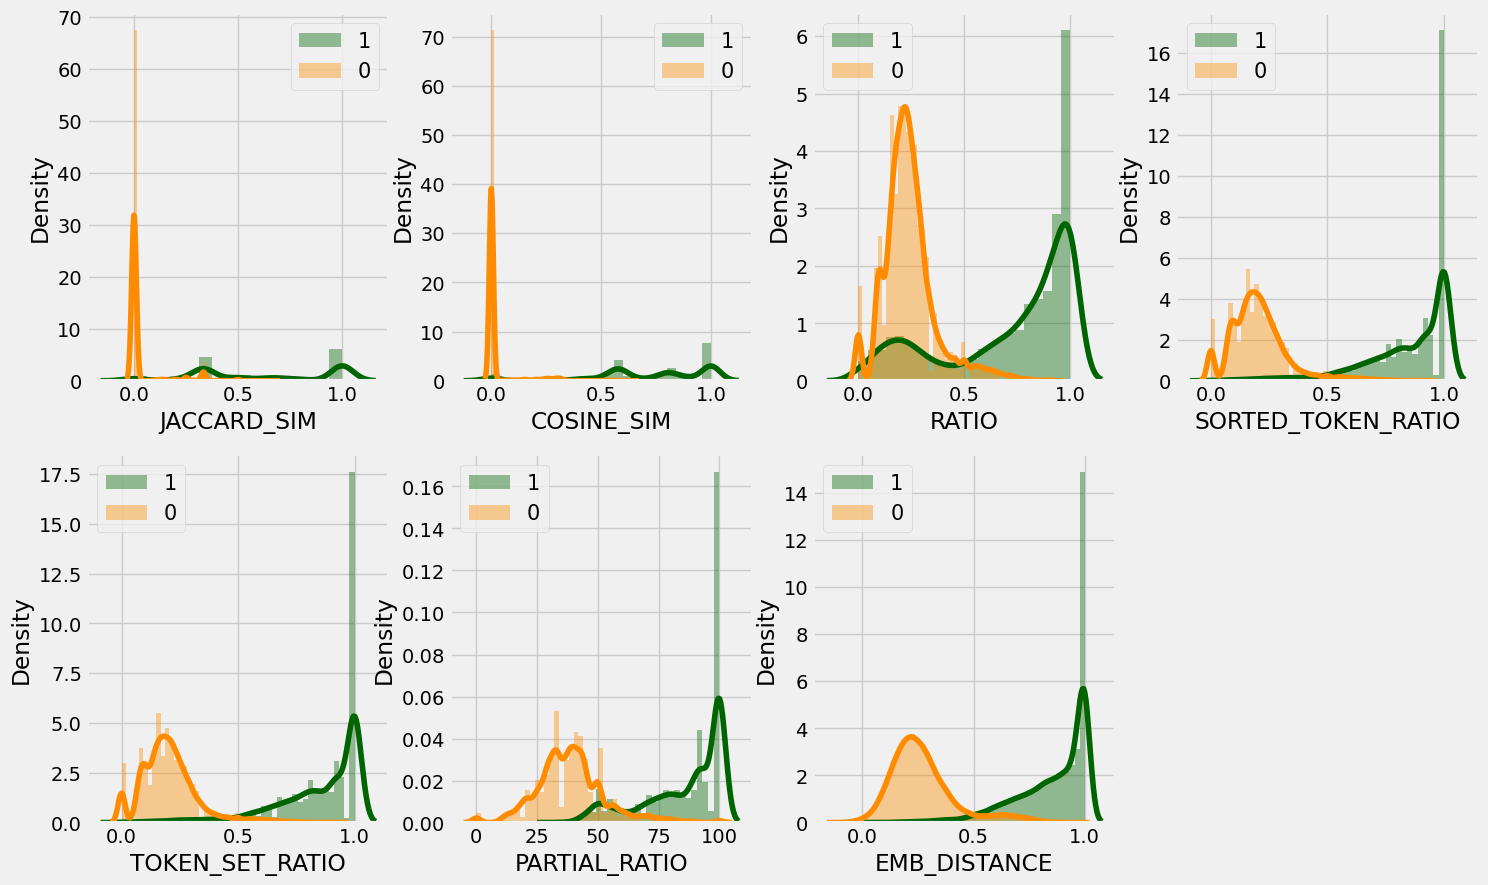
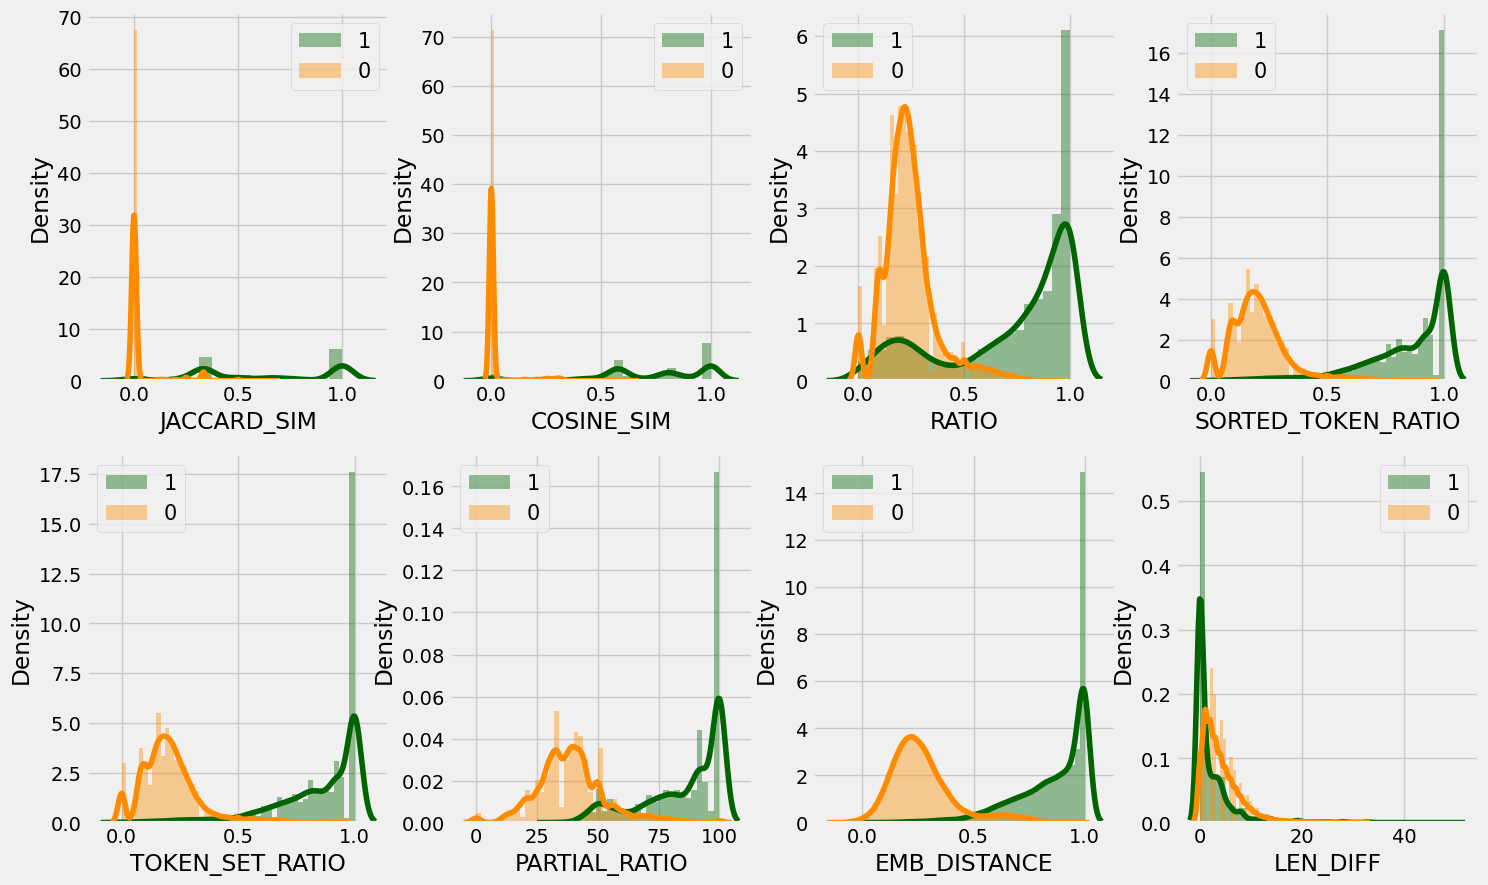
Added an additional feature and fixed all the test cases

Changed region(s): [[0.7419, 0.5492, 0.9274, 1.0], [0.9274, 0.5186, 0.9892, 0.6102], [0.9274, 0.9153, 0.9583, 0.9458]]

diff --git a/name_matching/models/train_model.py b/name_matching/models/train_model.py
@@ -83,6 +83,9 @@ class NameMatchingTrainer:
         self.figure_feature_distribution = config["FIGUREPATH"][
             "FIGURE_FEATURE_DISTRIBUTION"
         ]
+        self.figure_probability_density = config["FIGUREPATH"][
+            "FIGURE_PROBABILITY_DENSITY"
+        ]
 
     def optimize_hyperparameters(
         self, x_train: pd.DataFrame, y_train: pd.Series
@@ -266,6 +269,67 @@ class NameMatchingTrainer:
             "SAVED_FEATURE_DISTRIBUTION_FIG_TO", file=self.figure_feature_distribution
         )
 
+    def plot_density(self, y_test: pd.Series, y_pred_prob: List[float]) -> None:
+        """
+        Plots the density distribution of predicted probabilities for each class.
+        This helps visualize the separation between match and no-match classes
+        and aids in selecting an optimal classification threshold.
+
+        :param y_test: True labels for test set
+        :param y_pred_prob: Predicted probabilities for test set
+        """
+
+        # Create DataFrame for easier plotting
+        df_plot = pd.DataFrame(
+            {"probability": y_pred_prob, "true_label": y_test.values}
+        )
+
+        # Create figure
+        plt.figure(figsize=(12, 6))
+
+        # Plot density distributions for each class
+        sns.kdeplot(
+            data=df_plot[df_plot["true_label"] == 0]["probability"],
+            color="darkorange",
+            label="No Match (0)",
+            fill=True,
+            alpha=0.5,
+        )
+        sns.kdeplot(
+            data=df_plot[df_plot["true_label"] == 1]["probability"],
+            color="darkgreen",
+            label="Match (1)",
+            fill=True,
+            alpha=0.5,
+        )
+
+        # Add vertical line at the current threshold
+        plt.axvline(
+            x=self.thresh,
+            color="red",
+            linestyle="--",
+            linewidth=2,
+            label=f"Threshold = {self.thresh}",
+        )
+
+        # Labels and title
+        plt.xlabel("Predicted Probability", fontsize=12)
+        plt.ylabel("Density", fontsize=12)
+        plt.title(
+            "Probability Density Distribution by True Class\n(Test Set)",
+            fontsize=14,
+            fontweight="bold",
+        )
+        plt.legend(fontsize=11)
+        plt.grid(True, alpha=0.3)
+
+        # Save figure
+        plt.savefig(self.figure_probability_density, bbox_inches="tight", dpi=100)
+        plt.close()
+        self.logger.info(
+            "SAVED_PROBABILITY_DENSITY_FIG_TO", file=self.figure_probability_density
+        )
+
     def plot_model(
         self,
         model: LGBMClassifier,
@@ -294,6 +358,9 @@ class NameMatchingTrainer:
         self.logger.info(
             "SAVED_PRECISION_RECALL_FIG_TO", file=self.figure_precision_recall
         )
+
+        # Plot the probability density distribution
+        self.plot_density(y_test, y_pred_prob)
 
         # Plot the feature importance
         feature_importance = pd.DataFrame(
@@ -374,6 +441,7 @@ def main():
     token_set_ratio_col = config["DATA.COLUMNS"]["TOKEN_SET_RATIO_COL"]
     partial_ratio_col = config["DATA.COLUMNS"]["PARTIAL_RATIO_COL"]
     emb_dist_col = config["DATA.COLUMNS"]["EMB_DISTANCE_COL"]
+    len_diff_col = config["DATA.COLUMNS"]["LEN_DIFF_COL"]
 
     # Load the training data
     logger.info("LOAD_POSITIVE_PAIRS", file=filename_pos_pairs)
@@ -483,6 +551,7 @@ def main():
         token_set_ratio_col,
         partial_ratio_col,
         emb_dist_col,
+        len_diff_col,
     ]
     logger.info("NUM_FINAL_FEATURES", count=len(features_final))
 

diff --git a/entity_resolution.py b/entity_resolution.py
@@ -389,10 +389,10 @@ class EntityResolver:
         # Step 2: Preprocess names
         df_txn = self.preprocess_names(df_txn)
 
-        # Step 3: Deduplicate transactions
+        # Deduplicate transactions using preprocessed names
         df_dedup = self.deduplicate_transactions(df_txn)
 
-        # Step 4: Create and visualize original transaction graph
+        # Step 3: Create and visualize original transaction graph
         orig_graph = self.create_transaction_graph(
             df_dedup, "Cust_Name_Processed", "Counterpart_Name_Processed"
         )
@@ -400,30 +400,30 @@ class EntityResolver:
             orig_graph, output_orig_graph, "Original Transaction Graph"
         )
 
-        # Step 5: Get all unique names
+        # Step 4: Get all unique names
         unique_names = list(
             set(df_dedup["Cust_Name_Processed"].unique()).union(
                 set(df_dedup["Counterpart_Name_Processed"].unique())
             )
         )
 
-        # Step 6: Generate pairwise comparisons
+        # Step 5: Generate pairwise comparisons
         df_pairs = self.generate_pairwise_comparisons(unique_names)
 
-        # Step 7: Predict matches
+        # Step 6: Predict matches
         df_predictions = self.predict_matches(df_pairs, threshold=threshold)
 
-        # Step 8: Create graph from matched pairs
+        # Step 7: Create graph from matched pairs
         df_matches = df_predictions[df_predictions["prediction"] == 1]
         matched_graph = self.create_matched_graph(df_matches)
 
-        # Step 9: Detect communities and get resolved names
+        # Step 8: Detect communities and get resolved names
         entity_mapping, resolved_names = self.detect_communities(matched_graph)
 
-        # Step 10: Assign entity IDs and resolved names to original transactions
+        # Step 9: Assign entity IDs and resolved names to original transactions
         df_resolved = self.assign_entity_ids(df_dedup, entity_mapping, resolved_names)
 
-        # Step 11: Create and visualize resolved graph (using resolved names)
+        # Step 10: Create and visualize resolved graph (using resolved names)
         resolved_graph = self.create_resolved_graph(df_resolved)
         self.visualize_graph(
             resolved_graph, output_resolved_graph, "Resolved Entity Graph"
@@ -483,8 +483,6 @@ def main():
                 "FT_No",
                 "Cust_Name",
                 "Counterpart_Name",
-                "ENTITY_X",
-                "ENTITY_Y",
                 "RESOLVED_NAME_X",
                 "RESOLVED_NAME_Y",
             ]

diff --git a/tests/unit_tests/test_predict_model.py b/tests/unit_tests/test_predict_model.py
@@ -54,7 +54,7 @@ class TestNameMatchingPredictor:
         assert predictor.model is not None
         assert predictor.tfidf_vectorizer is not None
         assert predictor.feature_generator is not None
-        assert len(predictor.features_final) == 7
+        assert len(predictor.features_final) == 8
 
     def test_predictor_model_paths_exist(self, predictor):
         """Test that model files exist at specified paths."""
@@ -75,7 +75,7 @@ class TestNameMatchingPredictor:
         assert result["name_x"] == "John Smith"
         assert result["name_y"] == "J. Smith"
         assert "features" in result
-        assert len(result["features"]) == 7
+        assert len(result["features"]) == 8
 
     def test_predict_single_no_match(self, predictor):
         """Test prediction for a non-matching name pair."""
@@ -244,11 +244,14 @@ class TestNameMatchingPredictor:
             # Most similarity features should be between 0 and 1
             # PARTIAL_RATIO from fuzzywuzzy returns 0-100
             # EMB_DISTANCE can vary depending on the metric used
-            if feature_name != "EMB_DISTANCE":
+            # LEN_DIFF is absolute difference in string length (can be any non-negative integer)
+            if feature_name not in ["EMB_DISTANCE", "LEN_DIFF"]:
                 if feature_name == "PARTIAL_RATIO":
                     assert 0 <= feature_value <= 100, f"{feature_name} out of range"
                 else:
                     assert 0 <= feature_value <= 1, f"{feature_name} out of range"
+            elif feature_name == "LEN_DIFF":
+                assert feature_value >= 0, f"{feature_name} should be non-negative"
 
     def test_predictor_with_custom_paths(self, config_ini):
         """Test predictor initialization with custom model paths."""

diff --git a/name_matching/features/build_features.py b/name_matching/features/build_features.py
@@ -140,6 +140,7 @@ class FeatureGenerator:
         self.token_set_ratio_col = config["DATA.COLUMNS"]["TOKEN_SET_RATIO_COL"]
         self.partial_ratio_col = config["DATA.COLUMNS"]["PARTIAL_RATIO_COL"]
         self.emb_dist_col = config["DATA.COLUMNS"]["EMB_DISTANCE_COL"]
+        self.len_diff_col = config["DATA.COLUMNS"]["LEN_DIFF_COL"]
 
     def build_features(
         self, names_x: List[str], names_y: List[str], tfidf_vectorizer: TfidfVectorizer
@@ -215,6 +216,12 @@ class FeatureGenerator:
             self.logger.info("GENERATING_EMBEDDING_DISTANCE_FEATURES")
             emb_distances = compute_embedding_distances(names_x, names_y)
 
+            # Absolute string length diff
+            len_diffs = [
+                abs(len(name_x) - len(name_y))
+                for name_x, name_y in zip(names_x, names_y)
+            ]
+
             df_featured = pd.DataFrame(
                 {
                     self.jaccard_sim_col: jaccard_xy,
@@ -224,6 +231,7 @@ class FeatureGenerator:
                     self.token_set_ratio_col: token_set_ratios,
                     self.partial_ratio_col: partial_ratios,
                     self.emb_dist_col: emb_distances,
+                    self.len_diff_col: len_diffs,
                 }
             )
             return df_featured

diff --git a/name_matching/models/predict_model.py b/name_matching/models/predict_model.py
@@ -63,6 +63,7 @@ class NameMatchingPredictor:
             config["DATA.COLUMNS"]["TOKEN_SET_RATIO_COL"],
             config["DATA.COLUMNS"]["PARTIAL_RATIO_COL"],
             config["DATA.COLUMNS"]["EMB_DISTANCE_COL"],
+            config["DATA.COLUMNS"]["LEN_DIFF_COL"],
         ]
 
         # Load the trained model and vectorizer

diff --git a/tests/integration_tests/test_api.py b/tests/integration_tests/test_api.py
@@ -75,7 +75,7 @@ class TestInfoEndpoint:
         assert "model_path" in data["model"]
         assert "tfidf_path" in data["model"]
         assert "features" in data["model"]
-        assert data["model"]["num_features"] == 7
+        assert data["model"]["num_features"] == 8
 
 
 class TestPredictEndpoint:

diff --git a/README.md b/README.md
@@ -1,6 +1,6 @@
 ## Project Overview
 
-This is a Name Matching ML model for entity resolution and transaction monitoring. It uses a LightGBM classifier to determine whether two names (person or organization) refer to the same entity. The model uses multiple string similarity features including edit distance, Jaccard similarity, TF-IDF cosine similarity, and sentence embeddings.
+This implements a Name Matching ML model for entity resolution and transaction monitoring. It uses a LightGBM classifier to determine whether two names (person or organization) refer to the same entity. The model uses multiple string similarity features including edit distance, Jaccard similarity, TF-IDF cosine similarity, and sentence embeddings.
 
 ## Architecture
 
@@ -13,7 +13,7 @@ The codebase implements a three-stage ML pipeline:
    - `make_dataset.py`: Generates training pairs (positive and negative examples) using Azure OpenAI to create aliases
 
 2. **Feature Engineering** (`name_matching/features/`)
-   - `build_features.py`: Computes 7 similarity features between name pairs:
+   - `build_features.py`: Computes 8 similarity features between name pairs:
      - Jaccard similarity (token intersection over union)
      - TF-IDF cosine similarity (requires pre-fitted vectorizer)
      - Ratio feature (normalized edit distance)
@@ -21,6 +21,7 @@ The codebase implements a three-stage ML pipeline:
      - Token set ratio (edit distance on unique sorted tokens)
      - Partial ratio (fuzzy matching)
      - Embedding distance (sentence-transformers: all-MiniLM-L6-v2)
+     - String length absolute difference
 
 3. **Model Training** (`name_matching/models/`)
    - `train_model.py`: Trains LightGBM classifier, generates performance plots, saves model and TF-IDF vectorizer as pickle files

diff --git a/API_README.md b/API_README.md
@@ -97,9 +97,10 @@ Get information about the loaded model.
       "SORTED_TOKEN_RATIO",
       "TOKEN_SET_RATIO",
       "PARTIAL_RATIO",
-      "EMB_DISTANCE"
+      "EMB_DISTANCE",
+      "LEN_DIFF"
     ],
-    "num_features": 7
+    "num_features": 8
   }
 }
 ```
@@ -147,7 +148,8 @@ Classify a single name pair.
       "SORTED_TOKEN_RATIO": 0.7143,
       "TOKEN_SET_RATIO": 0.7143,
       "PARTIAL_RATIO": 0.8,
-      "EMB_DISTANCE": 0.9123
+      "EMB_DISTANCE": 0.9123,
+      "LEN_DIFF": 3.0
     }
   }
 }
